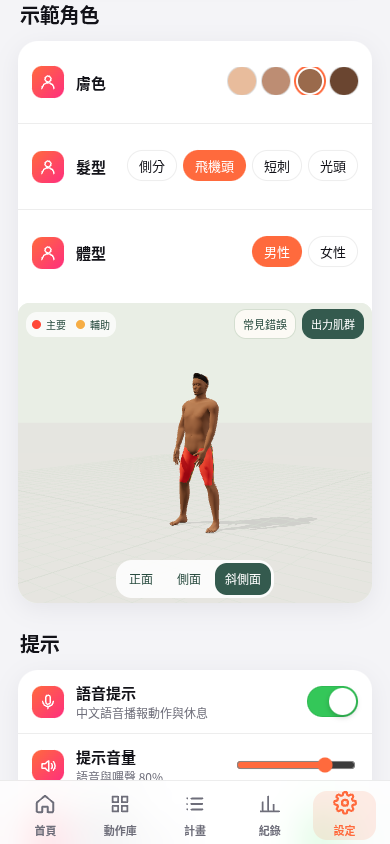
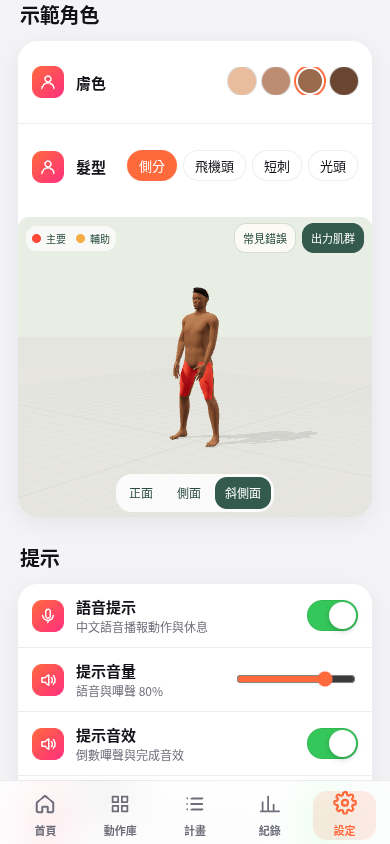
Hide 女性 body type for now (migrate saved female to male); hair defaults to 側分 C

Changed region(s): [[0.0308, 0.2464, 0.9538, 0.9242], [0.3077, 0.154, 0.6462, 0.2156]]

diff --git a/src/pages/Settings.tsx b/src/pages/Settings.tsx
@@ -26,7 +26,6 @@ const isStandalone = () => window.matchMedia?.('(display-mode: standalone)').mat
 
 const SKINS = [['light', '白皙', '#e8bc9c'], ['medium', '自然', '#bd8d73'], ['tan', '小麥', '#9a6a4c'], ['deep', '深色', '#6a4530']] as const
 const HAIRS = [['C', '側分'], ['A', '飛機頭'], ['B', '短刺'], ['', '光頭']] as const
-const BODIES = [['male', '男性'], ['female', '女性']] as const
 
 export default function Settings() {
   const { data, updateSettings, replaceAll, clearAll } = useStore()
@@ -122,13 +121,6 @@ export default function Settings() {
           <div className="chips">
             {HAIRS.map(([k, label]) => (
               <button key={k} className="chip" aria-pressed={(s.hair ?? 'C') === k} onClick={() => updateSettings({ hair: k })}>{label}</button>
-            ))}
-          </div>
-        </Row>
-        <Row icon="user" title="體型">
-          <div className="chips">
-            {BODIES.map(([k, label]) => (
-              <button key={k} className="chip" aria-pressed={(s.body ?? 'male') === k} onClick={() => updateSettings({ body: k })}>{label}</button>
             ))}
           </div>
         </Row>

diff --git a/public/movement3d/appearance.js b/public/movement3d/appearance.js
@@ -6,7 +6,7 @@ export function readAvatar(params){
   let s={};try{s=JSON.parse(localStorage.getItem('bwfit:data:v1')||'{}').settings||{};}catch{}
   const o=(params.get('avatar')||'').split(',');
   const skin=o[0]||s.skin,hair=o.length>1?o[1]:s.hair,body=o[2]||s.body;
-  return {skin:SKINS[skin]?skin:'medium',hair:['','A','B','C'].includes(hair)?hair:'C',body:body==='female'?'female':'male'};
+  return {skin:SKINS[skin]?skin:'medium',hair:['','A','B','C'].includes(hair)?hair:'C',body:'male'/* female dormant for now */};
 }
 const weightOf=(geo,bones,re,i)=>{let w=0;for(let k=0;k<4;k++){const b=bones[geo.attributes.skinIndex.array[i*4+k]];if(b&&re.test(b.name))w+=geo.attributes.skinWeight.array[i*4+k];}return w;};
 // female silhouette: wider hips, narrower waist / shoulders, slimmer arms, soft chest. Bind-pose vertex edit.

diff --git a/src/lib/store.tsx b/src/lib/store.tsx
@@ -52,6 +52,8 @@ export function sanitize(raw: unknown): AppData {
     const st = r.settings as Partial<Settings>
     d.settings = { ...DEFAULT_SETTINGS, ...st, onboarded: st.onboarded ?? true }
     if (typeof d.settings.nickname !== 'string') d.settings.nickname = ''
+    // female body type is hidden for now: migrate to male
+    d.settings.body = 'male'
   }
   return d
 }
